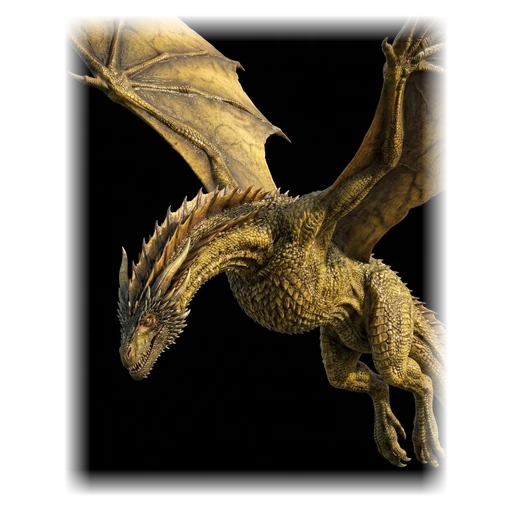
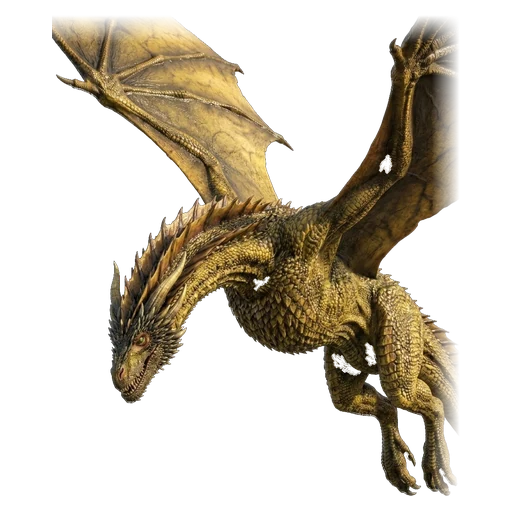
Draw Viserion as a solid dragon instead of a translucent spirit
Viserion's black background was kept and drawn in screen blend mode, which
made the whole dragon see-through. The optimizer now cuts dark backgrounds
like any flat color unless the image is listed in LUMINOSAS, and Viserion
no longer uses luminosa.

diff --git a/prototipo/js/datos/invocaciones.js b/prototipo/js/datos/invocaciones.js
@@ -91,7 +91,7 @@ export const INVOCACIONES = {
   },
   viserion: {
     nombre: 'Viserion', rareza: 'Épico', emoji: '🐉', color: 0xfde68a, imagen: 'assets/invocaciones/viserion.webp', dur: 2,
-    enfoque: [.29, .645], luminosa: true,   // fondo negro: se dibuja en modo pantalla
+    enfoque: [.28, .665],
     desc: 'Reduce 1 turno el cooldown del Especial y del Over de Daenerys.',
     acciones: [{ tipo: 'reducirCooldown', cantidad: 1, categorias: ['especial', 'over'], a: 'propio' }],
   },

diff --git a/prototipo/herramientas/optimizar_imagenes.py b/prototipo/herramientas/optimizar_imagenes.py
@@ -165,6 +165,11 @@ def desvanecer_cortes(rgba: Image.Image) -> Image.Image:
     return Image.fromarray(a.astype(np.uint8), 'RGBA')
 
 
+# Invocaciones/reliquias que son "espíritus": su fondo negro se conserva y el juego las dibuja en modo luminoso
+# ("luminosa: true" en su ficha). Las demás con fondo negro u oscuro se recortan como cualquier color liso.
+LUMINOSAS: set[str] = set()
+
+
 def recorte_transparente(src: Path, dst: Path, size: int) -> str:
     im = ImageOps.exif_transpose(Image.open(src))
     if im.mode in ('RGBA', 'LA', 'P') and np.asarray(im.convert('RGBA'))[..., 3].min() < 250:
@@ -173,8 +178,11 @@ def recorte_transparente(src: Path, dst: Path, size: int) -> str:
         rgb = np.asarray(im.convert('RGB')).astype(float)
         b = max(4, min(rgb.shape[:2]) // 100)
         borde = np.concatenate([rgb[:b].reshape(-1, 3), rgb[-b:].reshape(-1, 3), rgb[:, :b].reshape(-1, 3), rgb[:, -b:].reshape(-1, 3)])
-        oscuro = np.median(borde.mean(1)) < 45      # fondo negro/oscuro: se conserva y el juego la muestra en modo luminoso
+        oscuro = np.median(borde.mean(1)) < 45 and slug(src) in LUMINOSAS   # espíritu: se conserva el fondo negro
         f = None if oscuro else fondo_estimado(rgb)
+        if not oscuro and not f and np.median(borde.mean(1)) < 45:          # fondo negro/oscuro casi liso
+            c = np.median(borde, 0)
+            f = (c, c, 'fondo oscuro')
         res = quitar_cuadricula(rgb) if f and f[2] == 'cuadriculado falso' else None
         if oscuro:
             rgba, nota = im.convert('RGBA'), 'fondo oscuro conservado (usar "luminosa: true" en la invocación)'

diff --git a/docs/mecanicas.md b/docs/mecanicas.md
@@ -300,7 +300,8 @@ Solo existen **buffs** y **debuffs**. Cada uno lleva **etiquetas** internas para
 - Van en `prototipo/assets/originales/<personajes|invocaciones|transformaciones|reliquias>/`.
 - El nombre del archivo es el nombre de la ficha.
 - Se optimizan con `python herramientas/optimizar_imagenes.py`.
-- **Invocaciones con fondo negro u oscuro:** el fondo se conserva y la invocación lleva `luminosa: true`. Se dibuja en modo "pantalla": el negro se vuelve transparente y la figura brilla como un espíritu (p. ej. Shadow Ming Byung).
+- **Fondo negro u oscuro:** se recorta como cualquier color liso y la figura queda sólida (p. ej. Viserion).
+- **Espíritus** (opcional): si una invocación debe verse como un espíritu brillante, se agrega su nombre a `LUMINOSAS` en el optimizador (conserva el fondo negro) y lleva `luminosa: true` en su ficha: se dibuja en modo "pantalla", el negro desaparece y la figura brilla **translúcida**. Hoy ninguna lo usa.
 
 ## 13. Pantallas y construcción de equipos
 
